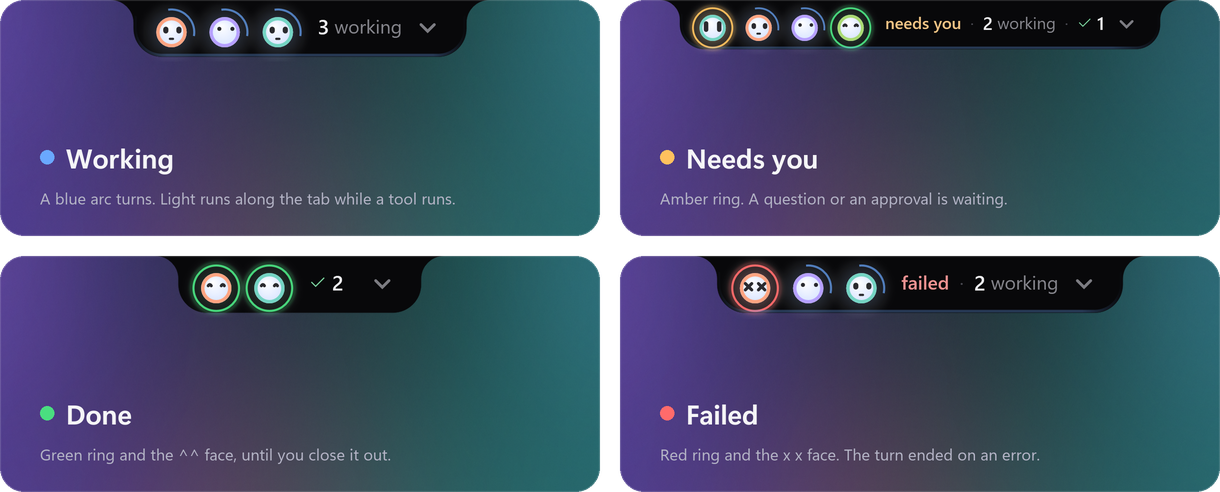
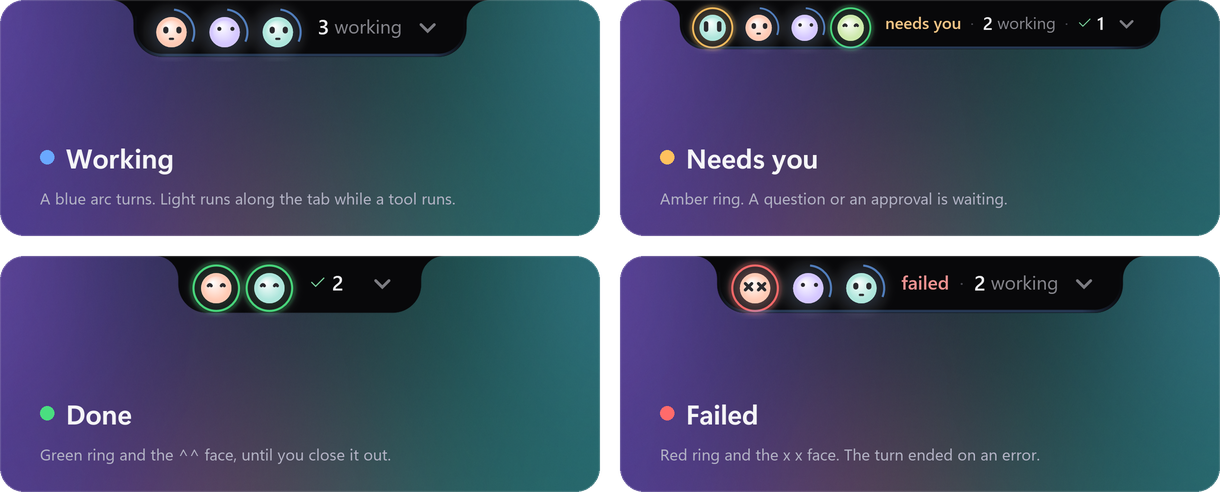
Ship the new bot paint: identity in the face, an edge instead of a ring
iArxic picked the .34 face with a light rim and gave the rule that settles
the argument: the ring does not need to be visible when it is the same colour
as the head. A small bot is one coloured object with an edge, not a ring with
a head inside it. The 60 px bot keeps the near-white face, the gradient rim
and the sheen.

The --skin switch and its five losing variants are gone; the paint is two
functions that branch on size so the tab, the rows and the big bot cannot
drift. README pictures and the demo film regenerated from the new paint
(tools/readme-media.py record + art), and section 2b of the release brief
records the decision and the true-size judging method.

diff --git a/desktop/Draw.cs b/desktop/Draw.cs
@@ -159,35 +159,34 @@ internal static class Draw
 
     internal static Color Blend(Color a, Color b, double t) => Color.FromRgb(        (byte)(a.R + (b.R - a.R) * t), (byte)(a.G + (b.G - a.G) * t), (byte)(a.B + (b.B - a.B) * t));
 
-    // ── the bot's paint (design round: `--skin`) ────────────────────────────────────────────────────
+    // ── the bot's paint ────────────────────────────────────────────────────────────────
     //
-    // The bots were flat: a solid identity rim and a face that is white with a pale-blue falloff, which
-    // at 14–16 px reads as a plain white dot. These three variants give the paint depth so a still can
-    // be photographed from one fixture. "" is exactly what shipped, so the live notch is untouched
-    // until a variant is picked and the switch and the losers are deleted.
+    // SHADE WHAT IS LARGE, COLOUR WHAT IS SMALL (0.2.0; picked over nine rendered variants).
+    //
+    // The tab's bot is 16 px with a 1.7 px rim. A gradient across that is not there, and neither is a faint
+    // tint: what survives at that size is one large colour block. So a small bot carries its identity in
+    // the FACE, and its rim is only a slightly lighter version of that same colour — not a ring with a head
+    // inside it, one coloured object with an edge (iArxic: "we don't need the ring to be visible if the ring
+    // color is the same as the head").
+    //
+    // The 60 px bot has room for light, so it keeps the near-white face, a gradient rim and a sheen. Both
+    // are one function each, branching on size, so the tab, the rows and the big bot cannot drift.
 
-    /// <summary>`--skin rim|face|gloss`: how the bots are painted. Empty means as shipped.</summary>
-    internal static string Skin = "";
+    /// <summary>Above this the bot is big enough to show a gradient and a sheen.</summary>
+    const double BigBot = 30;
+
+    /// <summary>The face's outer stop: saturated on a small bot, a hint of the hue on the big one.</summary>
+    internal static Color FaceOuter(Color identity, double size) =>
+        Blend(identity, C("#FFFFFF"), size >= BigBot ? .91 : .34);
 
     /// <summary>
-    /// The rim. A gradient across it (light from the upper left, the session's own hue in the middle, a
-    /// shade at the lower right) reads as a ring turning away from a light — the cheapest way to stop a
-    /// 1.5 px stroke looking like printer's ink.
+    /// The rim. Small: the face's own colour lightened a step, so the bot reads as one coloured object with
+    /// an edge. Large: a gradient, light from the upper left, the hue in the middle, a shade at the lower
+    /// right — a ring turning away from a light.
     /// </summary>
-    internal static Brush RimPaint(Color identity, double opacity = 1, double size = 60)
+    internal static Brush RimPaint(Color identity, double size, double opacity = 1)
     {
-        // shade what is LARGE, colour what is SMALL: a gradient across a 1.7 px stroke is invisible, so the
-        // small bots get one solid, deeper ring and the big one gets the light.
-        if (Skin == "coin") return B(Blend(identity, C("#FFFFFF"), .70), opacity);
-        if (Skin is "adapt34") return B(Blend(identity, C("#000000"), .20), opacity);   // .34 density, DARK ring
-        if (Skin is "adapt40l") return B(Blend(identity, C("#FFFFFF"), .45), opacity);  // .40 density, COIN ring
-        if ((Skin is "adapt2" or "adapt3" or "adapt4") && size < 30)
-            return B(Skin == "adapt4"
-                ? Blend(identity, C("#FFFFFF"), .45)                        // a light ring, the coin's edge
-                : Blend(identity, C("#000000"), Skin == "adapt2" ? .22 : .16), opacity);
-        if (Skin is "tint") return B(Blend(identity, C("#000000"), .24), opacity);
-        if (Skin == "adaptive" && size < 30) return B(Blend(identity, C("#000000"), .22), opacity);
-        if (Skin.Length == 0) return B(identity, opacity);
+        if (size < BigBot) return B(Blend(identity, C("#FFFFFF"), .45), opacity);
         var g = new LinearGradientBrush { StartPoint = new Point(.18, 0), EndPoint = new Point(.82, 1) };
         g.GradientStops.Add(new GradientStop(Blend(identity, C("#FFFFFF"), .52), 0));
         g.GradientStops.Add(new GradientStop(identity, .44));
@@ -197,31 +196,12 @@ internal static class Draw
     }
 
     /// <summary>
-    /// The face's outer stop. The shipped bot falls off to a pale blue whatever the session's hue; the
-    /// `face` variant falls off to a pastel of the session's OWN hue, so the bot is visibly its colour.
+    /// A soft sheen over the upper half of the face — the big bot only. Same box as the face, so the shape is
+    /// right without a clip: a vertical white gradient, gone just past the middle.
     /// </summary>
-    internal static Color FaceOuter(Color identity, double size = 60) => Skin switch
+    internal static Brush? Sheen(double size)
     {
-        "face" or "gloss" => Blend(identity, C("#FFFFFF"), .80),   // a visible pastel of the session hue
-        "both" => Blend(identity, C("#FFFFFF"), .91),              // a hint of it, and the white stays white
-        "tint" => Blend(identity, C("#FFFFFF"), .55),              // colour MASS: the only thing 16 px shows
-        "coin" => Blend(identity, C("#FFFFFF"), .28),              // the bot IS its colour, with a light ring
-        "adaptive" => size >= 30 ? Blend(identity, C("#FFFFFF"), .91) : Blend(identity, C("#FFFFFF"), .56),
-        "adapt2" => size >= 30 ? Blend(identity, C("#FFFFFF"), .91) : Blend(identity, C("#FFFFFF"), .40),
-        "adapt3" => size >= 30 ? Blend(identity, C("#FFFFFF"), .91) : Blend(identity, C("#FFFFFF"), .30),
-        "adapt4" => size >= 30 ? Blend(identity, C("#FFFFFF"), .91) : Blend(identity, C("#FFFFFF"), .34),
-        "adapt34" => size >= 30 ? Blend(identity, C("#FFFFFF"), .91) : Blend(identity, C("#FFFFFF"), .34),
-        "adapt40l" => size >= 30 ? Blend(identity, C("#FFFFFF"), .91) : Blend(identity, C("#FFFFFF"), .40),
-        _ => C("#D8E4FF"),
-    };
-
-    /// <summary>
-    /// A soft sheen over the upper half of the face (`gloss` only). Same box as the face, so the shape is
-    /// right without a clip: a vertical white gradient, fading out just past the middle.
-    /// </summary>
-    internal static Brush? Sheen(double size = 60)
-    {
-        if (Skin is not ("gloss" or "both") && !(Skin.StartsWith("adapt") && size >= 30)) return null;
+        if (size < BigBot) return null;
         var g = new LinearGradientBrush { StartPoint = new Point(.25, 0), EndPoint = new Point(.7, 1) };
         g.GradientStops.Add(new GradientStop(Color.FromArgb(0x5E, 0xFF, 0xFF, 0xFF), 0));
         g.GradientStops.Add(new GradientStop(Color.FromArgb(0x14, 0xFF, 0xFF, 0xFF), .48));
@@ -406,9 +386,9 @@ internal sealed class OrbView : Canvas
         Children.Add(_spin);
 
         _identity = identity;
-        // with `--skin rim` this is a gradient, so the paint and the ring that carries it are both kept:
+        // the paint depends on the bot's size, so the stroke is replaced whole rather than recoloured:
         // a re-colour replaces the stroke whole rather than editing a SolidColorBrush's Colour
-        _rimBrush = Draw.RimPaint(identity, 1, size);
+        _rimBrush = Draw.RimPaint(identity, size);
         _rimGlow = new DropShadowEffect { Color = identity, BlurRadius = 20, ShadowDepth = 0, Opacity = .6 };
         _rimRing = new Ellipse
         {
@@ -509,7 +489,7 @@ internal sealed class OrbView : Canvas
     {
         _aura.Fill = new RadialGradientBrush(state, Colors.Transparent);
         _identity = identity;
-        _rimBrush = Draw.RimPaint(identity, 1, _size);
+        _rimBrush = Draw.RimPaint(identity, _size);
         if (_rimRing is not null) _rimRing.Stroke = _rimBrush;
         _faceFill.GradientStops[1].Color = _dim ? Draw.C("#B9BCC6") : Draw.FaceOuter(identity, _size);
         _rimGlow.Color = identity;
@@ -711,7 +691,7 @@ internal sealed class MiniBotView : Canvas
 
         _rim = new Ellipse
         {
-            Width = size, Height = size, Stroke = Draw.RimPaint(identity, .95, size),
+            Width = size, Height = size, Stroke = Draw.RimPaint(identity, size, .95),
             StrokeThickness = Math.Max(1.2, size * .11),
         };
         this.Add(_rim, Off, Off);
@@ -854,7 +834,7 @@ internal sealed class MiniBotView : Canvas
         _aura.Fill = new RadialGradientBrush(state, Colors.Transparent);
         _ringLineBrush.Color = state;
         _ringBloomBrush.Color = state;
-        _rim.Stroke = Draw.RimPaint(identity, .95, _size);
+        _rim.Stroke = Draw.RimPaint(identity, _size, .95);
         _faceFill.GradientStops[1].Color = Draw.FaceOuter(identity, _size);
     }
 }

diff --git a/docs/design/icons/_final.py b/docs/design/icons/_final.py
@@ -1,0 +1,29 @@
+from PIL import Image, ImageDraw
+from pathlib import Path
+d = Path("docs/design/icons")
+TAB = (196, 0, 470, 34)
+def strip(base, box, zoom=1):
+    img = base.crop(box).convert("RGBA")
+    out = Image.new("RGBA", img.size, (26,26,30,255)); out.alpha_composite(img)
+    out = out.convert("RGB")
+    return out.resize((out.width*zoom, out.height*zoom), Image.NEAREST) if zoom > 1 else out
+rows = [("shipped-0.2.0.png","working, as drawn (16 px)"),
+        ("shipped-settled.png","settled: failed + done")]
+true = {k: Image.open(d/k).convert("RGBA").resize((660,331), Image.LANCZOS) for k,_ in rows}
+pad, labelW = 8, 180
+cells = [(lab, strip(true[k], TAB)) for k,lab in rows]
+w = pad*2 + labelW + cells[0][1].width
+h = pad*(len(cells)+1) + sum(c.height for _,c in cells) + 18
+img = Image.new("RGB", (w,h), (18,18,21)); dr = ImageDraw.Draw(img)
+dr.text((pad,4), "0.2.0 bots at TRUE size, and settled", fill=(175,175,185))
+y = 20+pad
+for lab,cell in cells:
+    dr.text((pad, y+cell.height//2-4), lab, fill=(225,225,235))
+    img.paste(cell, (pad+labelW, y)); y += cell.height+pad
+img.save(d/"shipped-true.png"); print("shipped-true.png", img.size)
+# and the whole board, cropped, for the record
+im = Image.open(d/"shipped-0.2.0.png").convert("RGBA")
+b = im.getchannel("A").getbbox(); p=24
+crop = im.crop((max(0,b[0]-p),max(0,b[1]-p),min(im.width,b[2]+p),min(im.height,b[3]+p)))
+bg = Image.new("RGBA", crop.size, (26,26,30,255)); bg.alpha_composite(crop)
+bg.convert("RGB").save(d/"shipped-board.png"); print("shipped-board.png", crop.size)

diff --git a/desktop/Program.cs b/desktop/Program.cs
@@ -113,11 +113,6 @@ internal sealed class Options
     public Face? ForceFace;
     /// <summary>`--island x1|x4|d1`: hold the tab expanded as that alert, for stills.</summary>
     public string? Island;
-    /// <summary>
-    /// `--skin rim|face|gloss`: DESIGN ROUND ONLY - how the bots are painted. Empty (the default, and what
-    /// the host spawns) is exactly what shipped; the loser variants are deleted once one is picked.
-    /// </summary>
-    public string Skin = "";
 
     public static Options Parse(string[] args)
     {
@@ -148,7 +143,6 @@ internal sealed class Options
                 case "--record-ms": if (i + 1 < args.Length && double.TryParse(args[++i], out var rms)) o.RecordMs = rms; break;
                 case "--open-at": if (i + 1 < args.Length && double.TryParse(args[++i], out var oa)) o.OpenAtMs = oa; break;
                 case "--close-at": if (i + 1 < args.Length && double.TryParse(args[++i], out var ca)) o.CloseAtMs = ca; break;
-                case "--skin": if (i + 1 < args.Length) Draw.Skin = args[++i]; break;
                 case "--face":
                     if (i + 1 >= args.Length) { Log.Write("--face: needs a face name"); break; }
                     if (FaceArt.TryParse(args[++i], out var face)) o.ForceFace = face;

diff --git a/docs/RELEASE-0.2.0.md b/docs/RELEASE-0.2.0.md
@@ -4,7 +4,7 @@
 asset exists. This file is for whoever cuts the release; delete it once 0.2.0 ships and fold anything
 still useful into `INTERNALS.md`.
 
-0.2.0 carries **two** changes: the host stops stacking close-out probes (§1–§4), and the board stops
+0.2.0 carries **three** changes: the host stops stacking close-out probes (§1–§4), and the board stops
 drawing delegated sessions as agents of their own (§2a). The second one changes the **window**, so the
 release asset is not the 0.1.9 bytes any more.
 
@@ -105,6 +105,30 @@ fixture with a lead that has 1, 3, 7 and 0 children:
 The `×` is load-bearing: a bare trailing digit reads as part of the title ("Wrong direction at line 3"
 would be a landmine). The rule that decided it is arithmetic — a 14 px bot has room for an 11 px disc,
 and an 8 px digit inside that collides with the state ring, the aura, the title and the next row.
+
+## 2b. And the bots' paint
+
+The tab's bot is **16 px with a 1.7 px rim**. Every earlier bot was a white face inside a solid identity
+rim, so while four sessions worked, the tab was four white dots with four thin rings — the identity colour
+occupied about 6 % of the drawing.
+
+Two rounds of "make it richer" failed for the same reason and it is arithmetic, not taste: **at 16 px a
+gradient across 1.7 px is not there, and neither is a 9 % face tint.** Nine variants were photographed
+before that sank in (`docs/design/icons/`). What survives that size is one large colour block, so:
+
+| bot | face | rim |
+|---|---|---|
+| small (tab 16 px, rows 14 px) | 34 % white + the session's hue | the same colour, 45 % white — an edge, not a ring |
+| big (60 px) | 91 % white + a hint of the hue, plus a sheen | a gradient, light from the upper left |
+
+iArxic's rule, which settled it: *"we don't need the ring to be visible if the ring color is the same as
+the head."* A bot is one coloured object with an edge; the ring was never the thing being drawn. The big
+bot keeps the light because it is big enough to show it — **shade what is large, colour what is small.**
+
+**The judging method is part of the fix.** A 4× still flatters a gradient and cannot answer "does this
+read small", which is why three rounds of variants looked identical to the person actually using the
+notch. Every comparison here is a 4× still **downscaled to true size**, shown beside the same pixels at
+3–4× nearest-neighbour (`real-*.png`, `compare-*.png`, `ladder/`, `factorial-*.png`).
 
 ## 3. The other half, and why this release is safe without it
 

diff --git a/CHANGELOG.md b/CHANGELOG.md
@@ -16,6 +16,13 @@ back to normal — a slow route recovers at once, a dead one stops being asked. 
 rule now covers the host's own tick and its log sweep, because `setInterval` does not wait for an
 async callback and both of those can outlast their period.
 
+**The bots got their colour back.** The tab's bot is 16 px with a 1.7 px rim, so a gradient across it was
+invisible and a faint face tint was invisible too — four working sessions still looked like four white
+dots with four thin rings. What survives at that size is one large colour block, so the *face* now
+carries the identity and the rim is only a slightly lighter version of it: not a ring with a head inside
+it, one coloured object with an edge. The 60 px bot has room for light and keeps its near-white face, a
+gradient rim and a sheen. Chosen by rendering nine variants and judging them at true size, not at 4×.
+
 **The Settings pane's controls stopped looking borrowed.** The `<select>` popup came out white with a
 blue selection bar inside a dark pane, and the slider was white because `accent-color` inherited the
 app's ink. A popup is an OS window, so the lever is `color-scheme`: the pane now measures the colour it
